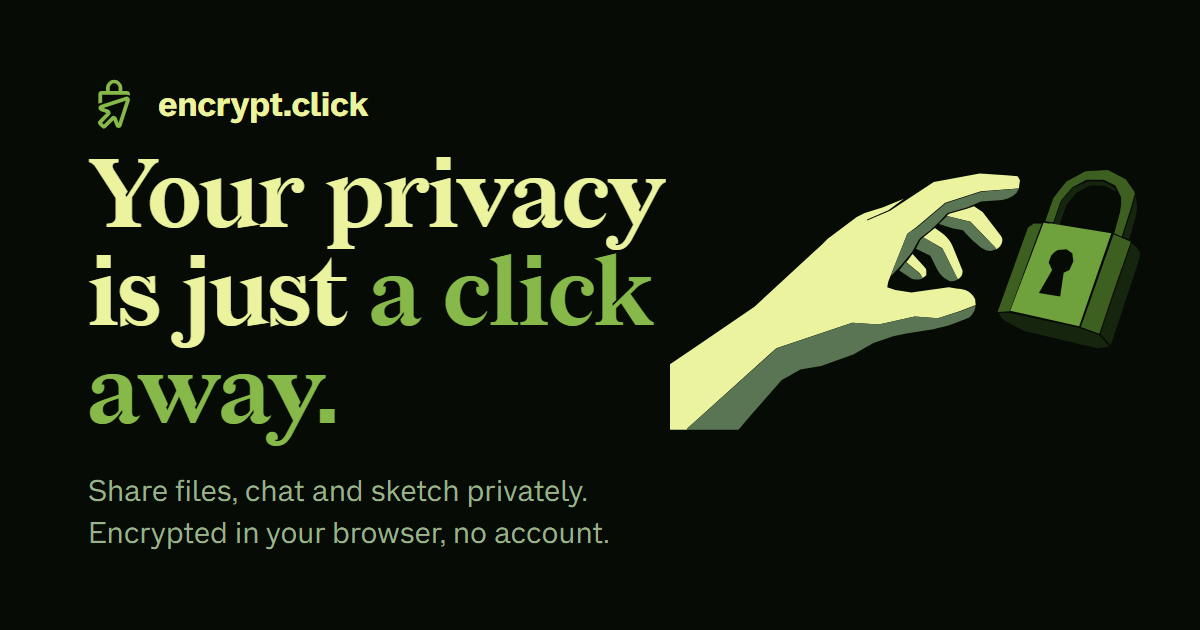
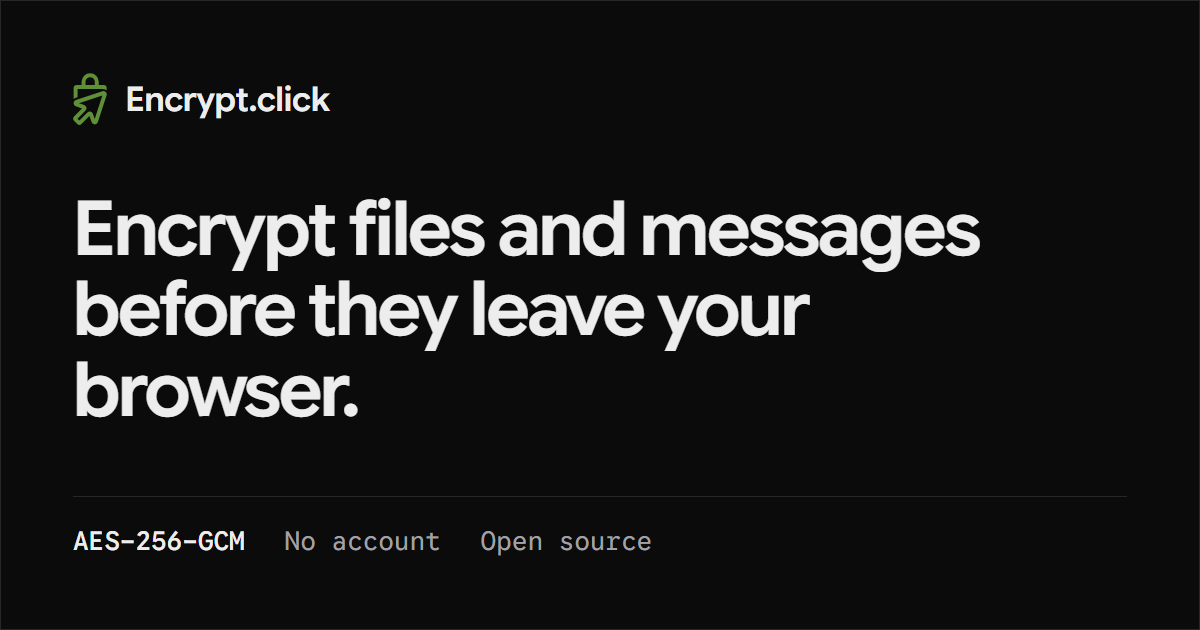
Chat, whiteboard and /app chrome: solid surfaces, token colours, 6/8px radii; new og image

diff --git a/src/styles/app.css b/src/styles/app.css
@@ -47,7 +47,8 @@
 :root[data-app-shots="1"][data-app-platform="ios"] .app-main-tabbar .k-glass {
     background: var(--app-surface) !important;
     background-image: none !important;
-    border: 1px solid var(--app-outline);
+    border: 0;
+    border-radius: 0;
     backdrop-filter: none !important;
     -webkit-backdrop-filter: none !important;
     box-shadow: none !important;
@@ -655,9 +656,16 @@ html[data-app-platform] ::selection {
     min-width: 0;
     padding-inline: 0;
 }
-/* Active-tab pill: a bit taller so the icon isn’t flush with the top/bottom edge. */
+/* Active-tab highlight is an 8px chip. flex-shrink would collapse it to the icon and read as a pill. */
 :root[data-app-platform="material"] .app-tabbar .k-tabbar-link-icon {
-    height: 2.5rem; /* Konsta default h-8 (2rem) */
+    height: 32px;
+    min-height: 32px;
+    flex-shrink: 0;
+    border-radius: 8px;
+}
+:root[data-app-platform] .app-main-tabbar .k-tabbar-link-icon > span {
+    border-radius: 8px;
+    box-shadow: none;
 }
 
 /* iOS 26: tab presses contract with a spring settle (Material uses ink ripple instead) */
@@ -2231,7 +2239,7 @@ html[data-app-platform] ::selection {
     --app-glass-shadow-sm: none;
 }
 :root[data-app-platform="ios"] .k-navbar .k-glass {
-    border-radius: 6px;
+    border-radius: 8px;
     overflow: hidden;
     transition: transform 180ms var(--ease-move);
 }
@@ -2249,8 +2257,7 @@ html[data-app-platform] ::selection {
     border-radius: inherit;
     transform: none !important;
 }
-/* Icon-only capsules (back-chevron, +, share) shrink to icon width — iOS 26
-   nav buttons are round, so give the capsule a minimum square footprint. */
+/* Icon-only nav controls (back, +, share) shrink to the icon. Keep a 44px square so the 8px radius stays even. */
 :root[data-app-platform="ios"] .k-navbar .k-glass:has(button:only-child),
 :root[data-app-platform="ios"] .k-navbar .k-glass:has(.k-link:only-child) {
     min-width: 44px;
@@ -3430,7 +3437,7 @@ html[data-app-platform] ::selection {
     width: 44px;
     height: 44px;
     flex: 0 0 auto;
-    border-radius: 50%;
+    border-radius: 8px;
     background: transparent;
     transition: background-color 180ms var(--ease-out);
 }
@@ -4512,7 +4519,7 @@ html[data-app-platform] ::selection {
     display: grid;
     place-items: center;
     border: 0;
-    border-radius: 50%;
+    border-radius: 8px;
     background: transparent;
     color: var(--app-inverse-on-surface);
 }
@@ -5004,9 +5011,79 @@ html[data-app-platform] ::selection {
     backdrop-filter: none;
     -webkit-backdrop-filter: none;
 }
+/* Full-width bar. The selected tab is an 8px tint wash, not a floating capsule. */
+:root[data-app-platform] .app-main-tabbar {
+    padding-left: env(safe-area-inset-left, 0px);
+    padding-right: env(safe-area-inset-right, 0px);
+    background: var(--app-surface);
+    background-image: none;
+    border-top: 1px solid var(--app-outline);
+    border-radius: 0;
+    box-shadow: none;
+}
 :root[data-app-platform] :is(.app-main-tabbar, .k-tabbar) :is(.k-toolbar-pane, .k-glass) {
     background: var(--app-surface);
     background-image: none;
+    border: 0;
+    border-radius: 0;
+    box-shadow: none;
+}
+:root[data-app-platform="ios"] .app-main-tabbar .k-toolbar-pane > span.absolute,
+:root[data-app-platform="ios"] .app-main-tabbar .k-toolbar-pane > span.absolute > span {
+    border-radius: 8px;
+    box-shadow: none;
+}
+:root[data-app-platform="ios"] .app-main-tabbar .k-toolbar-pane > span.absolute > span:first-child {
+    background: var(--app-tint-container);
+}
+:root[data-app-platform] :is(.k-navbar, .k-toolbar, .app-main-tabbar) .bg-gradient-to-t {
+    background-image: none;
+}
+:root[data-app-platform] :is(.k-dialog, .k-popover .k-glass, .k-actions .k-actions-group) {
+    border-radius: 8px;
+}
+:root[data-app-platform] .k-sheet {
+    border-radius: 8px 8px 0 0;
+}
+:root[data-app-platform] .k-segmented {
+    border-radius: 8px;
+    box-shadow: none;
+}
+:root[data-app-platform] .k-segmented > span,
+:root[data-app-platform] .k-segmented .k-button {
+    border-radius: 6px;
+    box-shadow: none;
+}
+:root[data-app-platform] .k-searchbar .k-glass {
+    border-radius: 8px;
+    background-image: none;
+    box-shadow: none;
+}
+:root[data-app-platform="ios"] .k-searchbar > .k-glass:not(button) {
+    border: 1px solid var(--app-outline);
+}
+:root[data-app-platform="material"] .k-searchbar input {
+    border-radius: 8px;
     border: 1px solid var(--app-outline);
     box-shadow: none;
+}
+:root[data-app-platform] .k-searchbar > button.k-glass {
+    border-radius: 8px;
+}
+:root[data-app-platform] .k-fab {
+    border-radius: 8px;
+    box-shadow: none;
+    background-image: none;
+}
+:root[data-app-platform] .k-navbar .k-glass {
+    background: var(--app-fill);
+    background-image: none;
+    border-radius: 8px;
+    box-shadow: none;
+}
+:root[data-app-platform] .duration-300 {
+    transition-duration: 180ms;
+}
+:root[data-app-platform] .duration-600 {
+    transition-duration: 320ms;
 }
